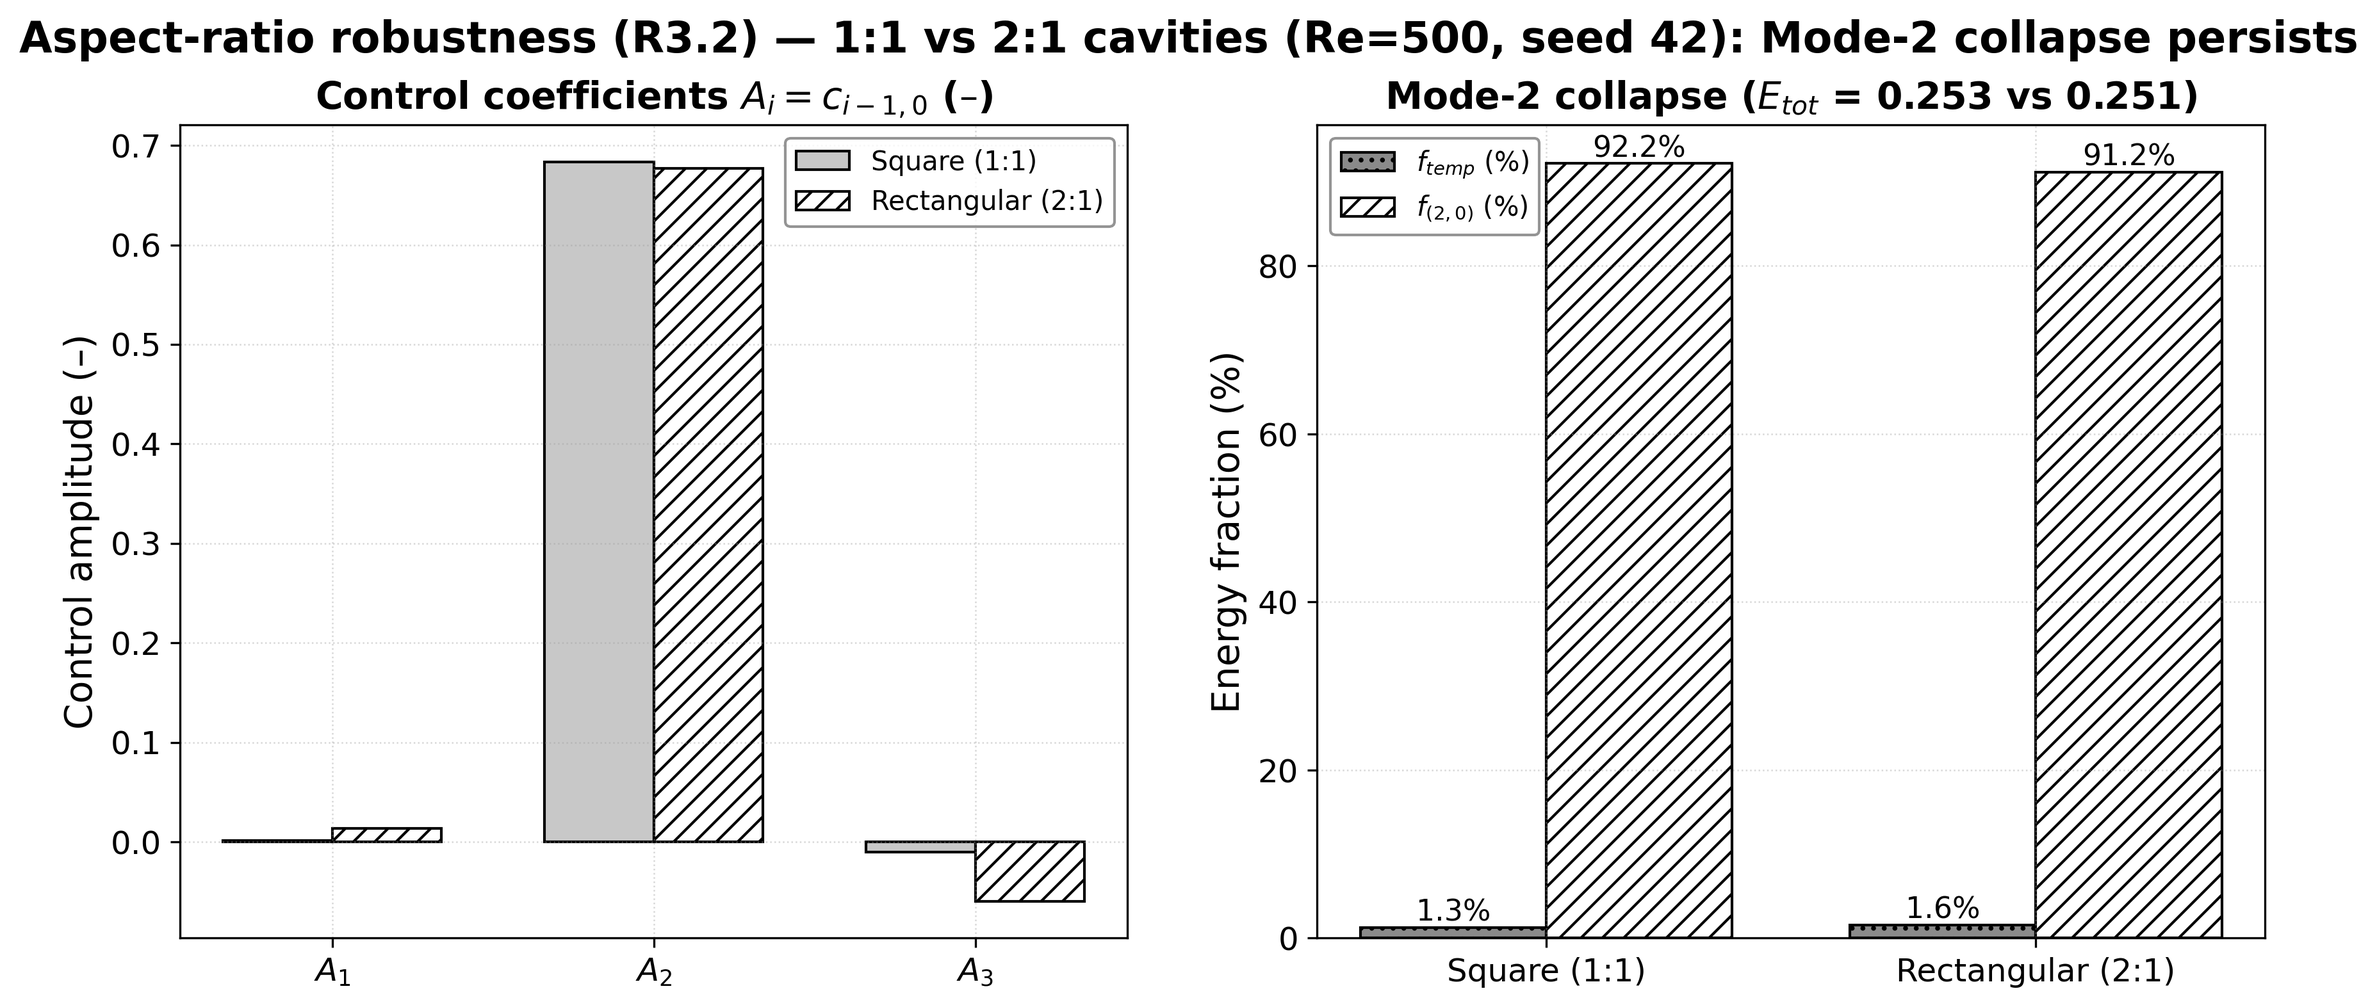
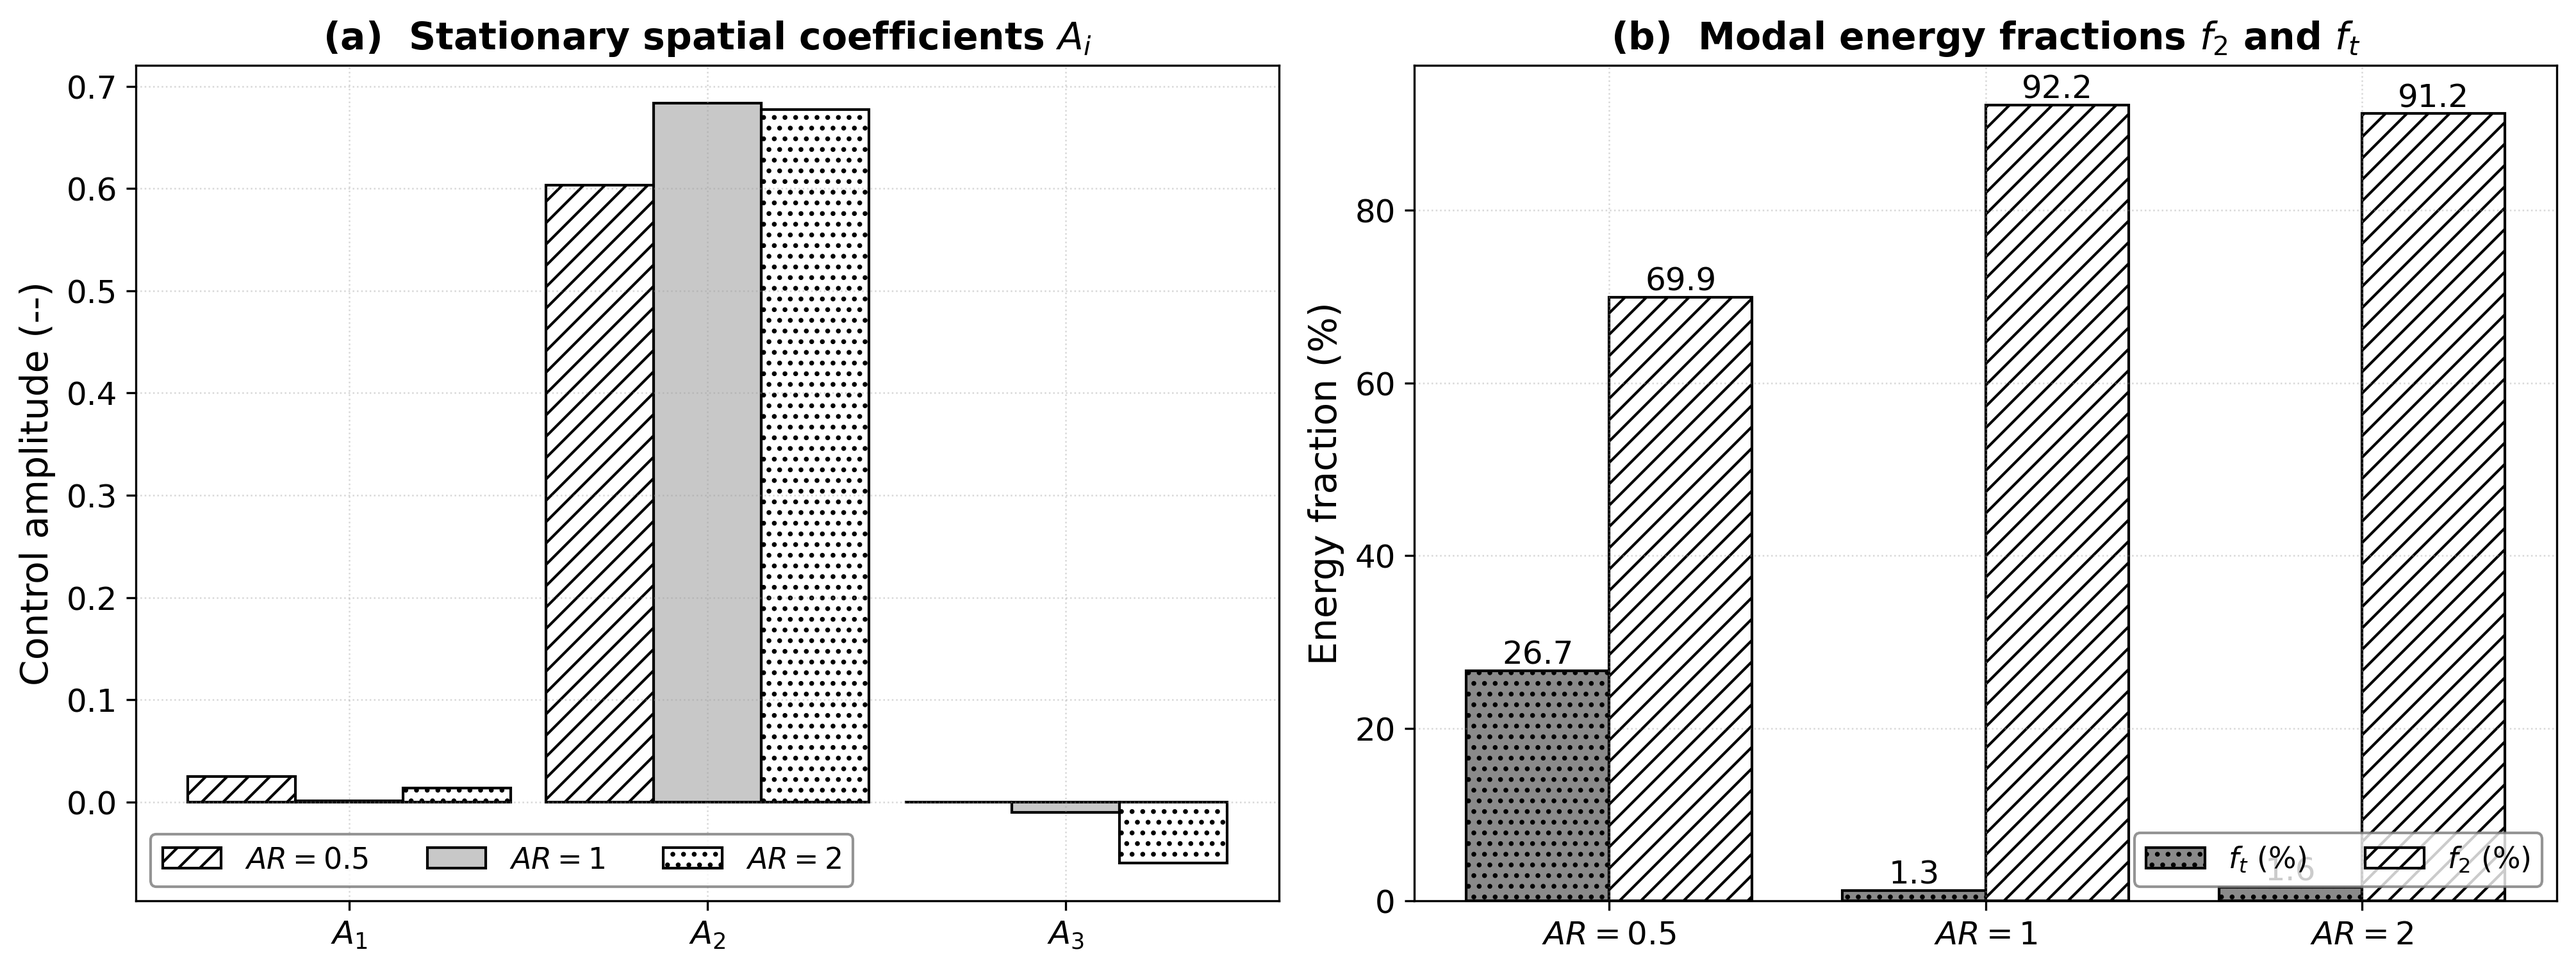
Add 0.5:1 aspect-ratio results to public AR figures + README; exclude manuscript_3geometries/ (under review)

diff --git a/results_reviewers/09_aspect_ratio/make_manuscript_ar_figures.py b/results_reviewers/09_aspect_ratio/make_manuscript_ar_figures.py
@@ -1,0 +1,105 @@
+# -*- coding: utf-8 -*-
+"""
+Manuscript aspect-ratio figures (3 geometries: AR = 0.5, 1, 2), Re=500,
+seed 42, E*=0.25, base 6x5 Fourier control space.
+
+Regenerates the two public figures stored under manuscript/figures:
+  - fig6_aspect_ratio.png : (a) A1,A2,A3 bars ; (b) f2 and ft bars
+  - fig7_lid_profiles.png : three-panel lid profiles U_lid(s), s = x/Lx
+
+White / black-and-white print-friendly style. 300 dpi. Input: the tracked
+aspect_ratio_results.csv (results_reviewers/09_aspect_ratio).
+
+Run: py -3.11 results_reviewers/09_aspect_ratio/make_manuscript_ar_figures.py
+"""
+import os
+import sys
+import csv
+import numpy as np
+import matplotlib
+matplotlib.use("Agg")
+import matplotlib.pyplot as plt
+
+BASE = os.path.dirname(os.path.abspath(__file__))
+ROOT = os.path.dirname(os.path.dirname(BASE))
+CSV = os.path.join(BASE, "aspect_ratio_results.csv")
+sys.path.insert(0, os.path.join(ROOT, "lbm_mrt_validation"))
+from figure_style import style_axes, legend, save_fig  # noqa: E402
+
+FIG_DIR = os.path.join(ROOT, "manuscript", "figures")
+
+GEO_LIST = ["short_rect", "square", "rectangular"]
+LABEL = {"short_rect": "0.5", "square": "1", "rectangular": "2"}
+XTICK = {"short_rect": "$AR=0.5$", "square": "$AR=1$", "rectangular": "$AR=2$"}
+GEO_HATCH = {"short_rect": "///", "square": "", "rectangular": "..."}
+GEO_FILL = {"short_rect": "#ffffff", "square": "#c8c8c8", "rectangular": "#ffffff"}
+
+
+rows = {}
+with open(CSV, newline="") as f:
+    rd = csv.DictReader(f)
+    for r in rd:
+        rows[r["geometry"]] = r
+
+# ----------------------------------------------------------------------
+# Figure 1: (a) A1, A2, A3  --  (b) f2 and ft for the three aspect ratios
+# ----------------------------------------------------------------------
+fig, (ax1, ax2) = plt.subplots(1, 2, figsize=(13.5, 5.2))
+xpos = np.arange(3)
+w = 0.30
+for i, geo in enumerate(GEO_LIST):
+    r = rows[geo]
+    amps = [float(r[k]) for k in ("A10", "A20", "A30")]
+    ax1.bar(xpos + (i - 1) * w, amps, w, color=GEO_FILL[geo],
+            edgecolor="k", hatch=GEO_HATCH[geo], label=XTICK[geo])
+ax1.set_xticks(xpos)
+ax1.set_xticklabels(["$A_1$", "$A_2$", "$A_3$"], color="k", fontsize=13)
+style_axes(ax1, yl="Control amplitude (--)",
+           title="(a)  Stationary spatial coefficients $A_i$")
+legend(ax1, fs=11, ncol=3)
+
+f2 = [float(rows[g]["mode2_fraction"]) * 100 for g in GEO_LIST]
+ft = [float(rows[g]["temporal_fraction"]) * 100 for g in GEO_LIST]
+x2 = np.arange(3)
+ax2.bar(x2 - 0.19, ft, 0.38, color="#8a8a8a", edgecolor="k", hatch="...",
+        label="$f_t$ (%)")
+ax2.bar(x2 + 0.19, f2, 0.38, color="#ffffff", edgecolor="k", hatch="///",
+        label="$f_2$ (%)")
+for xi, (a, b) in enumerate(zip(f2, ft)):
+    ax2.annotate("%.1f" % a, (xi + 0.19, a + 0.8), color="k", fontsize=12,
+                 ha="center")
+    ax2.annotate("%.1f" % b, (xi - 0.19, b + 0.8), color="k", fontsize=12,
+                 ha="center")
+ax2.set_xticks(x2)
+ax2.set_xticklabels([XTICK[g] for g in GEO_LIST], color="k", fontsize=13)
+style_axes(ax2, yl="Energy fraction (%)",
+           title="(b)  Modal energy fractions $f_2$ and $f_t$")
+legend(ax2, fs=11, ncol=2, loc="lower right")
+fig.tight_layout()
+save_fig(fig, os.path.join(FIG_DIR, "fig6_aspect_ratio.png"))
+print("   -> manuscript/figures/fig6_aspect_ratio.png  (AR = 0.5/1/2)")
+
+# ----------------------------------------------------------------------
+# Figure 2: lid profiles U_lid(s), s = x/Lx, one panel per aspect ratio
+# ----------------------------------------------------------------------
+s = np.linspace(0, 1, 500)
+fig, axes = plt.subplots(1, 3, figsize=(16.5, 5.0))
+for ax, geo in zip(axes, GEO_LIST):
+    r = rows[geo]
+    A2 = float(r["A20"])
+    cs = [float(r["c_%d_0" % i]) for i in range(6)]
+    mode = lambda m: sum(cs[i] * np.sin((i + 1) * np.pi * s) for i in range(m))
+    ax.plot(s, A2 * np.sin(2 * np.pi * s), color="0.45", ls="--", lw=1.7,
+            marker="o", markevery=28, ms=5, label="Reference $A_2\\sin(2\\pi s)$")
+    ax.plot(s, mode(6), color="k", lw=2.4, marker="*", markevery=28, ms=9,
+            label="PINN control (all modes)")
+    ax.plot(s, mode(3), color="k", ls=":", lw=2.2, marker="s", markevery=28,
+            ms=6, label="Reduced $A_1$+$A_2$+$A_3$ (3 modes)")
+    ax.axhline(0, color="0.5", lw=0.8)
+    style_axes(ax, xl="$s=x/L_x$ (--)", yl="$U_{lid}(s)$ (--)",
+               title="( %s )  $AR=%s$" % (geo[0], LABEL[geo]))
+    legend(ax, fs=10, loc="upper right")
+fig.tight_layout()
+save_fig(fig, os.path.join(FIG_DIR, "fig7_lid_profiles.png"))
+print("   -> manuscript/figures/fig7_lid_profiles.png  (AR = 0.5/1/2)")
+print("Manuscript aspect-ratio figures OK.")

diff --git a/README.md b/README.md
@@ -47,7 +47,7 @@ PoF_R_lid_driven_paper/
 | `08_temporal` (n_t = 1, 3, 5) | number of temporal modes | **89.2–92.3 %**, f_t ≤ 1.5 % |
 | `09_architecture` (small/baseline/large) | network capacity (9k→140k params) | **86.7–93.6 %** (new runs; intra-seed Δf2 ≤ ±4 % on the mode-2 branch) |
 | `13_parametrization` (3 Re × 2 bases) | basis family × Reynolds | Fourier: **0.92 / 0.92 / 0.64** at Re=100/500/1000; Chebyshev_mod: **≤0.06 (all Re, temporal (0,1) branch)** |
-| `09_aspect_ratio` (1:1 vs 2:1, Re=500) | cavity aspect ratio | square **0.922** vs rectangular **0.912** → collapse persists (geometric robustness, R3.2 closed) |
+| `09_aspect_ratio` (0.5:1 / 1:1 / 2:1, Re=500) | cavity aspect ratio | square **0.922** vs 2:1 **0.912** vs 0.5:1 **0.699** — mode 2 remains dominant; concentration is geometry-dependent (peak at the square) |
 | `lbm_mrt_validation` | LBM-MRT D2Q9 independent solver | Ghia-validated; injection of PINN controls; branch admissibility (Fourier quasi-static, Chebyshev fluctuation-dominated) — campaign running |
 
 ### Parametrization matrix — f(2,0) in the common Fourier projection (seed 42, E\*=0.25, 6×5)
